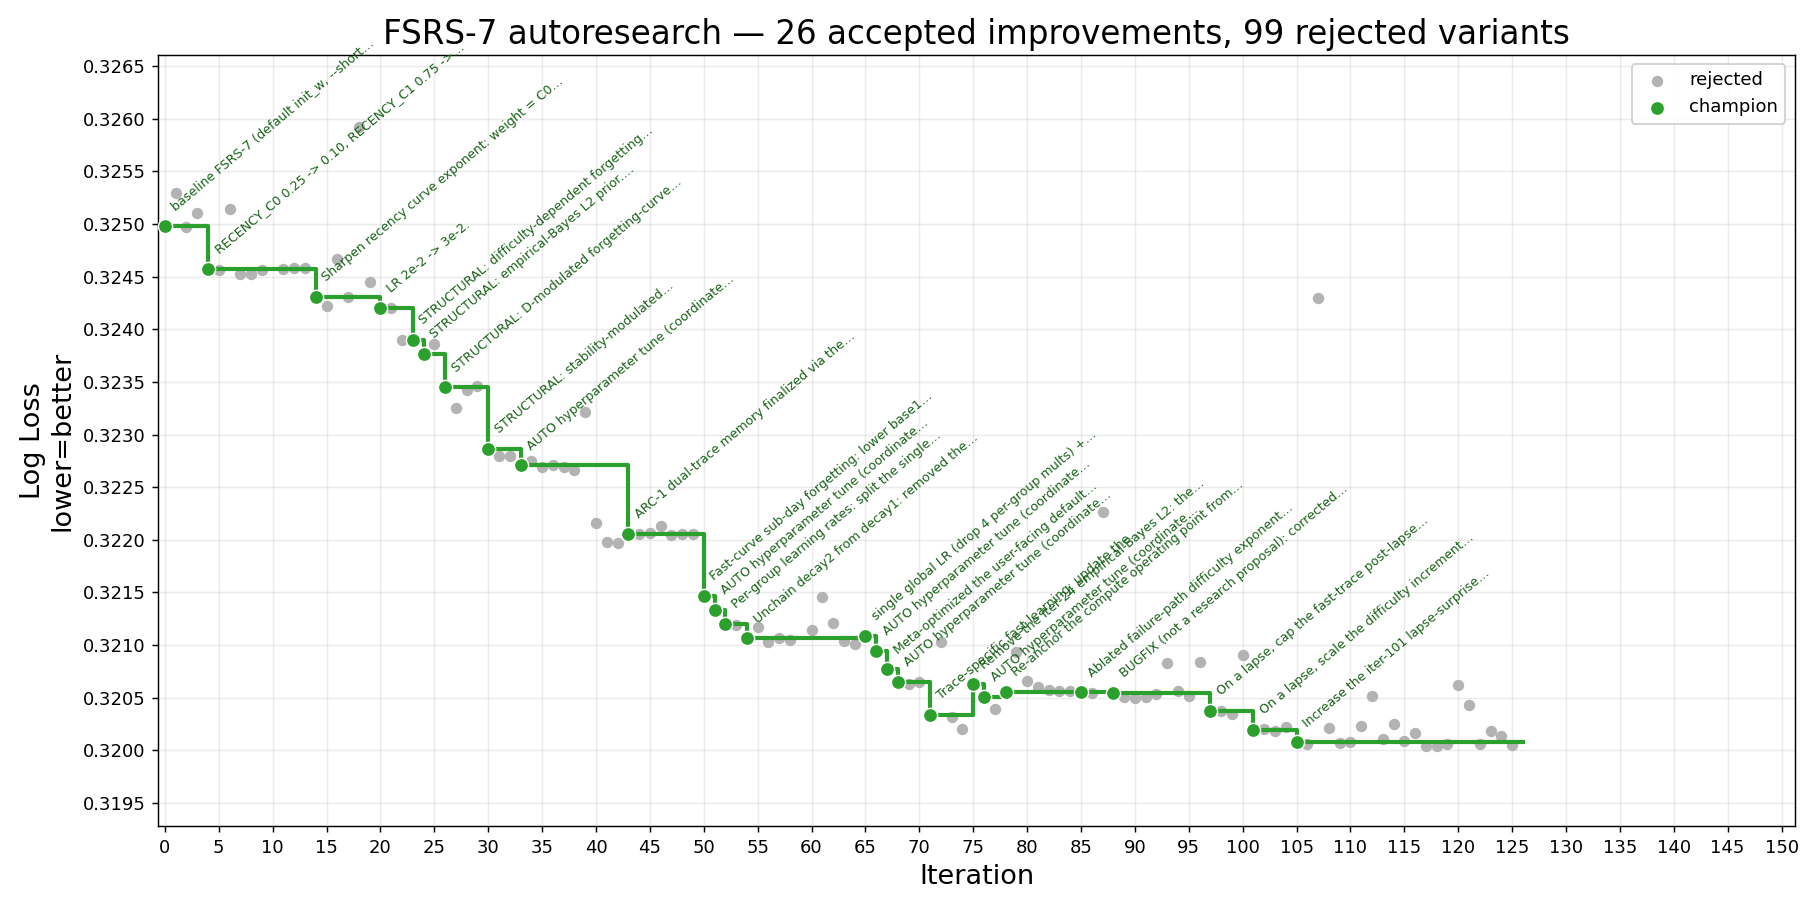
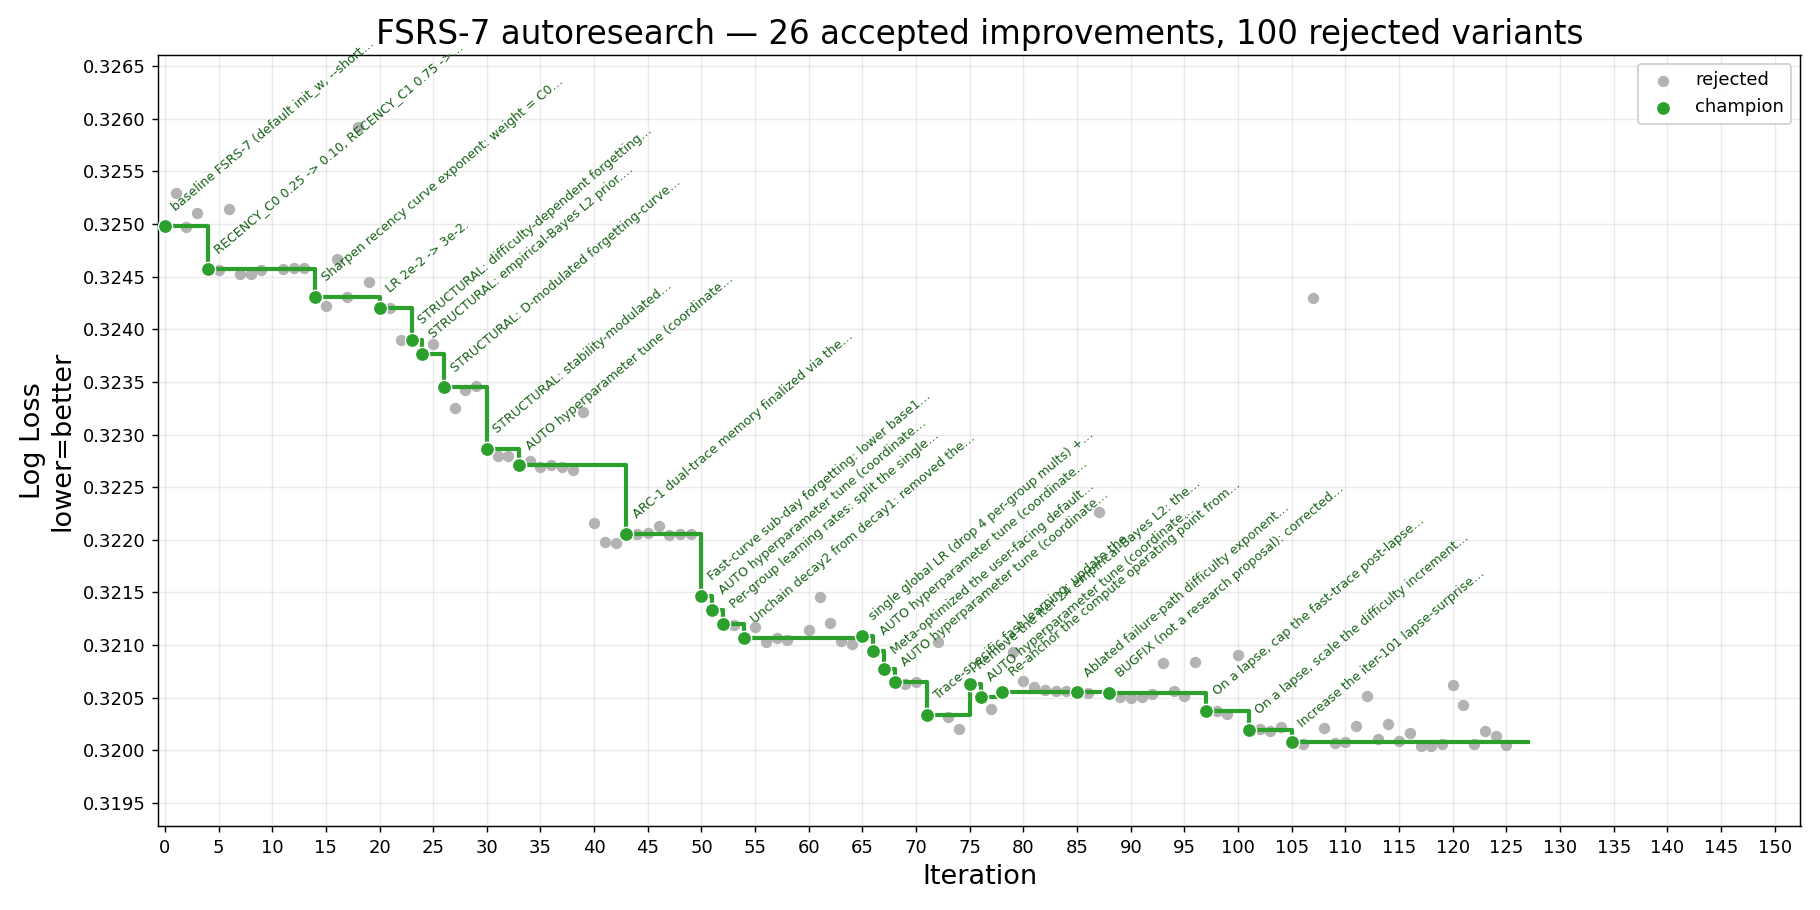
iter 127 (rejected): focal loss gamma=1 -- catastrophic -3.0e-2; BCE is matched-optimal, loss-change vein closed

diff --git a/result/history.md b/result/history.md
@@ -1,6 +1,6 @@
 # FSRS-7 autoresearch — iteration history
 
-_126 record(s). Generated from `history.jsonl` — do not edit by hand._
+_127 record(s). Generated from `history.jsonl` — do not edit by hand._
 
 | # | Time (UTC) | Thresh. | LL before | LL after | Δ LL | Cx before | Cx after | Δ Cx % | Status | Summary |
 |--:|---|---:|---:|---:|---:|---:|---:|---:|---|---|
@@ -130,3 +130,4 @@ _126 record(s). Generated from `history.jsonl` — do not edit by hand._
 | 124 | 2026-06-04T09:52:57 | 0.0001 | 0.32008 | 0.32013 | -0.00006 | 16,930 | 16,943 | +0.08% | rejected | Floor the long-trace Easy stability bonus (easy_bonus) at 1.1, forced on all users (lift L2-walled light users). |
 | 125 | 2026-06-04T10:04:34 | 0.0001 | 0.32008 | 0.32005 | +0.00002 | 16,930 | 16,930 | +0.00% | rejected | Set the lapse-surprise pivot to 1.0 so the lapse difficulty-increment factor equals retention (R). |
 | 126 | 2026-06-04T10:11:04 | 0.0001 | 0.32008 | 0.33130 | -0.01122 | 16,930 | 16,930 | +0.00% | rejected | Clamp the training-loss gradient \|dloss_dp\| to <=10 (robust/pseudo-Huber loss down-weighting confident-wrong outliers). |
+| 127 | 2026-06-04T10:15:39 | 0.0001 | 0.32008 | 0.35043 | -0.03035 | 16,930 | 16,930 | +0.00% | rejected | Replace BCE training-loss gradient with focal-loss gradient (gamma=1): down-weight confident-correct, up-weight hard/confident-wrong. |
